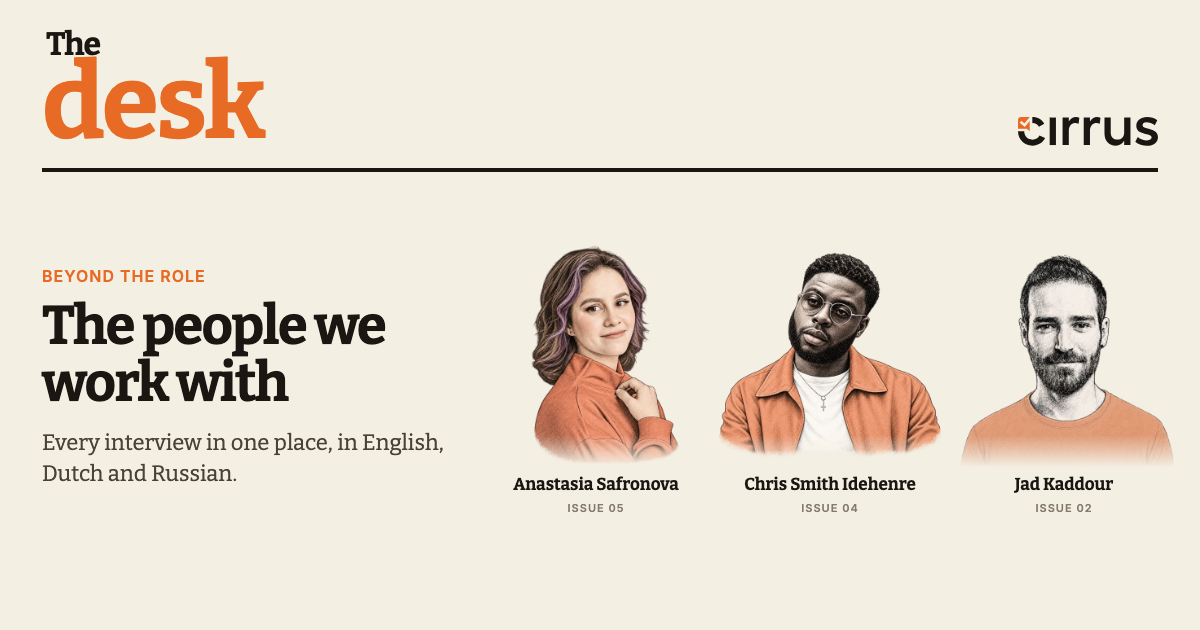
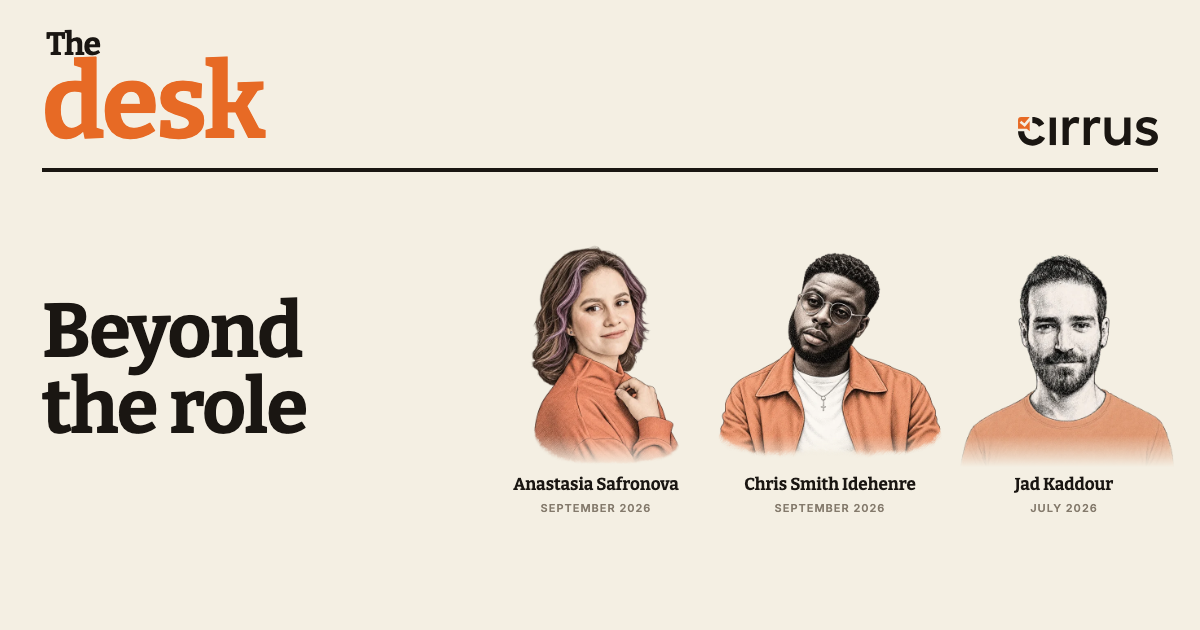
Portal: months only, data-driven cards, simpler title

diff --git a/beyond-the-role/index.html b/beyond-the-role/index.html
@@ -13,16 +13,16 @@
 
 <meta property="og:type" content="website">
 <meta property="og:site_name" content="The desk">
-<meta property="og:title" content="Beyond the role: all interviews">
-<meta property="og:description" content="Every interview in The desk’s Beyond the role series: the people we work with, in their own words.">
-<meta property="og:image" content="https://cirrus-assessment.github.io/the-desk/beyond-the-role/og.png?v=1">
+<meta property="og:title" content="Beyond the role">
+<meta property="og:description" content="Interviews from The desk with the people we work with.">
+<meta property="og:image" content="https://cirrus-assessment.github.io/the-desk/beyond-the-role/og.png?v=2">
 <meta property="og:image:width" content="1200">
 <meta property="og:image:height" content="630">
 <meta property="og:url" content="https://cirrus-assessment.github.io/the-desk/beyond-the-role/">
 <meta name="twitter:card" content="summary_large_image">
-<meta name="twitter:title" content="Beyond the role: all interviews · The desk">
-<meta name="twitter:description" content="Every interview in The desk’s Beyond the role series: the people we work with, in their own words.">
-<meta name="twitter:image" content="https://cirrus-assessment.github.io/the-desk/beyond-the-role/og.png?v=1">
+<meta name="twitter:title" content="Beyond the role · The desk">
+<meta name="twitter:description" content="Interviews from The desk with the people we work with.">
+<meta name="twitter:image" content="https://cirrus-assessment.github.io/the-desk/beyond-the-role/og.png?v=2">
 
 <link rel="preconnect" href="https://fonts.googleapis.com">
 <link rel="preconnect" href="https://fonts.gstatic.com" crossorigin>
@@ -90,8 +90,7 @@
   <p class="folio">All interviews</p>
 
   <header class="intro">
-    <p class="kicker">Beyond the role</p>
-    <h1>The people we work with</h1>
+    <h1>Beyond the role</h1>
     <p class="lede">We work together every day, but we don’t always get to know the person behind the role. In this series, colleagues talk about home, food, what they love and what makes a good life.</p>
   </header>
 
@@ -99,7 +98,7 @@
     <li class="card">
       <a href="../2026-09/anastasia-safronova/" aria-label="Read the interview with Anastasia Safronova">
         <div class="portrait"><img src="portraits/anastasia-safronova.webp" alt="" width="560" height="560" loading="eager"></div>
-        <p class="meta">Issue 05 · September 2026<span class="new">Latest</span></p>
+        <p class="meta">September 2026<span class="new">Latest</span></p>
         <h2>Anastasia Safronova</h2>
         <p class="role">QA Lead</p>
         <p class="stand">On dawn birdwatching, her grandma’s perepechi and the people who make a place home.</p>
@@ -109,7 +108,7 @@
     <li class="card">
       <a href="../2026-09/chris-smith-idehenre/" aria-label="Read the interview with Chris Smith Idehenre">
         <div class="portrait"><img src="portraits/chris-smith-idehenre.webp" alt="" width="560" height="560" loading="eager"></div>
-        <p class="meta">Issue 04 · September 2026</p>
+        <p class="meta">September 2026</p>
         <h2>Chris Smith Idehenre</h2>
         <p class="role">Senior Account Executive</p>
         <p class="stand">On early starts, his mum’s cooking and a good life.</p>
@@ -118,8 +117,8 @@
     </li>
     <li class="card">
       <a href="../2026-07/jad-kaddour/" aria-label="Read the interview with Jad Kaddour">
-        <div class="portrait"><img src="portraits/jad-kaddour.webp" alt="" width="560" height="560" loading="lazy"></div>
-        <p class="meta">Issue 02 · July 2026</p>
+        <div class="portrait"><img src="portraits/jad-kaddour.webp" alt="" width="560" height="560" loading="eager"></div>
+        <p class="meta">July 2026</p>
         <h2>Jad Kaddour</h2>
         <p class="role">Solutions Engineer</p>
         <p class="stand">On late-night creativity, dystopian futures, the Syrian dish worth the effort and why honesty matters more than being right.</p>
@@ -129,7 +128,7 @@
   </ul>
 
   <footer>
-    <p>Each interview is in English, Dutch and Russian. Sign in with your Cirrus account to read it.</p>
+    <p>Sign in with your Cirrus account to read each interview.</p>
     <p><strong>Beyond the role</strong> is an internal Cirrus series from The desk.</p>
   </footer>
 </div>

diff --git a/README.md b/README.md
@@ -11,9 +11,10 @@ stay behind Google sign-in.
     /                  redirects to the latest issue (and mirrors its preview card)
     favicon.ico        shared site icons (also favicon-16/32.png, apple-touch-icon.png)
     /beyond-the-role/   Portal: every Beyond the role interview as a card (portrait, name,
-                       role, issue, month) linking to its share page. Add a card per new issue.
+                       role, month) linking to its share page, built from interviews.json.
       og.png           1200x630 preview card for the portal
       portraits/       560px WebP portraits used by the cards
+      interviews.json  One entry per interview, newest first
     /2026-06/          June 2026, Issue 01, "Before it becomes a ticket"
       index.html       OG / Twitter meta + favicon links + a top-level redirect to the live report
       og.png           1200x630 preview card for this issue
@@ -65,3 +66,9 @@ Issue 05 source: `the-desk-2026-09-anastasia-safronova.html` in the same
 Cirrus Service Desk Reports Drive folder.
 
 Beyond the role portal: https://cirrus-assessment.github.io/the-desk/beyond-the-role/
+
+To add an interview to the portal: add a 560px WebP portrait to
+beyond-the-role/portraits/, add an entry at the top of interviews.json, then
+run build-portal.py and portal-og.cjs from the Issue 05 build kit
+(~/Documents/Codex/2026-09-28/anastasia/work/). The preview card always shows
+the newest three interviews; the page grid grows by one card.
